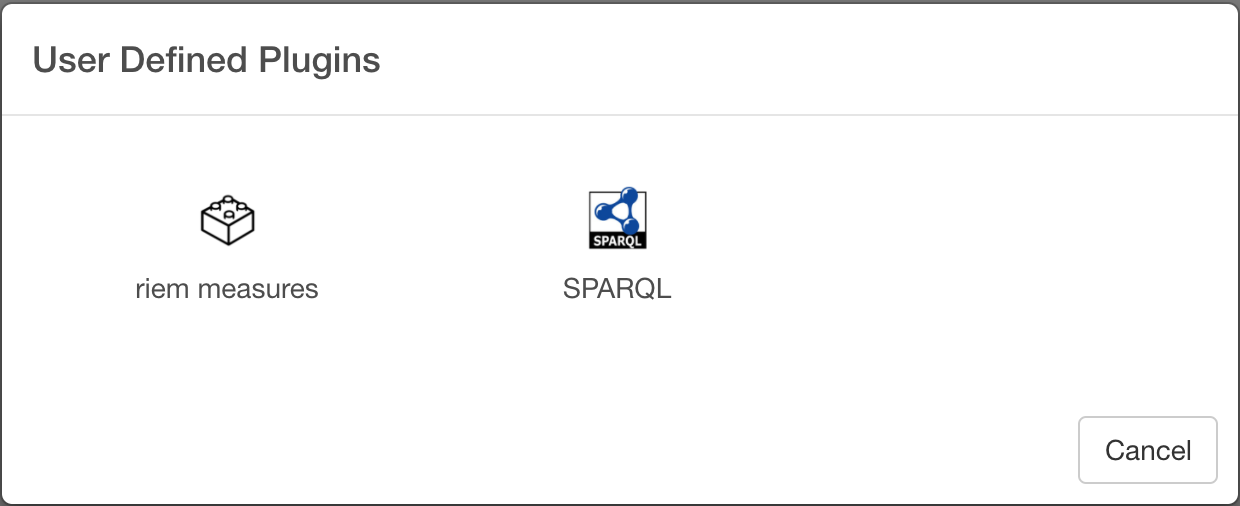
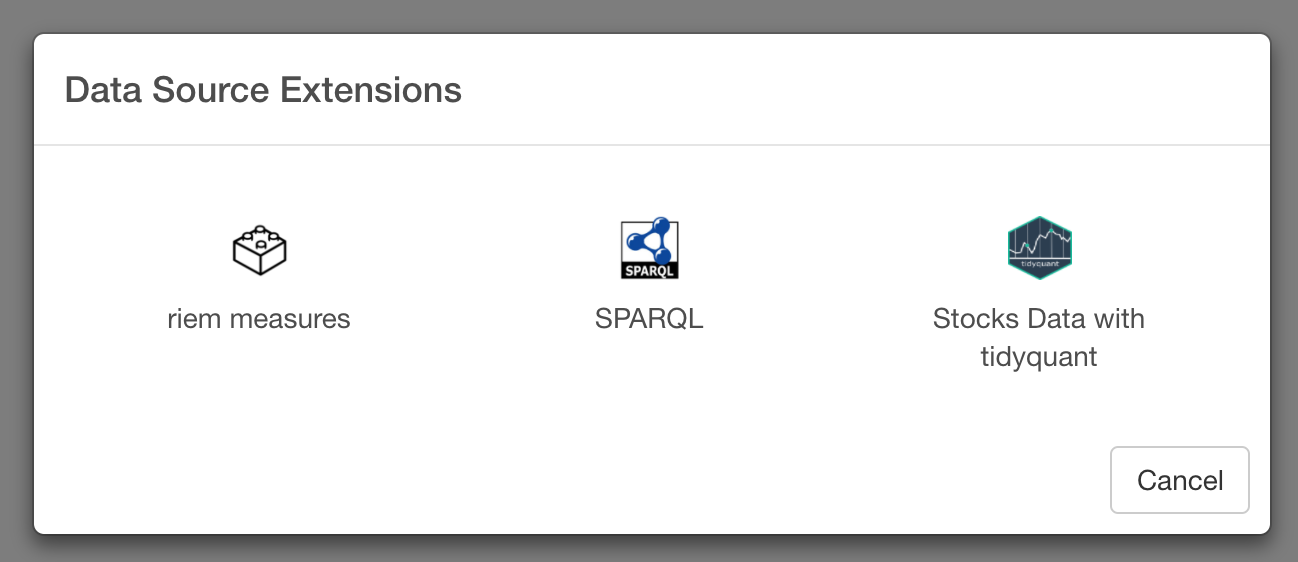
a) Changed name from plugin to data source extension b) Added example section.

diff --git a/user-defined-plugin.md b/user-defined-plugin.md
@@ -1,20 +1,20 @@
-# Add your Custom Data Sources with Plugin Framework
+# Add your Custom Data Sources with Data Source Extension Framework
 
 Exploratory provides a framework with which developers can create their own data sources that can be invoked from Exploratory's Data Import Dialog.
 
-## Plugin Structure
+## Data Source Extension Structure
 
-A user-defined plugin consists of JSON format plugin definition meta file (`plugin.json`) and R script file (`plugin.r`).
+A user-defined data source extension consists of JSON format extension definition meta file (`plugin.json`) and R script file (`plugin.r`).
 These two files need to be stored inside `~/.exploratory/plugins` directory as follows.
 
-`~/.exploratory/plugins/<plugin_name>/plugin.json`
+`~/.exploratory/plugins/<extension_name>/plugin.json`
 
-`~/.exploratory/plugins/<plugin_name>/scripts/plugin.r`
+`~/.exploratory/plugins/<extension_name>/scripts/plugin.r`
  
 
-## Create Plugin directory
+## Create Data Source Extension directory
 
-So let's say you want to create a plugin that uses `riem_measures` function from [riem](https://github.com/ropensci/riem) R package to get ASOS data via the Iowa Environment Mesonet. Then first you want to to create a directory called `my_riem_measures`. NOTE: The directory name is the plugin name and should be unique among user-defined plugins.
+So let's say you want to create a data source extension that uses `riem_measures` function from [riem](https://github.com/ropensci/riem) R package to get ASOS data via the Iowa Environment Mesonet. Then first you want to to create a directory called `my_riem_measures`. NOTE: The directory name is the data source extension name and should be unique among user-defined data source extensions.
 
 So on Mac, you can do:
 
@@ -22,9 +22,9 @@ So on Mac, you can do:
 
 `$ mkdir my_riem_measures`
 
-## Create Plugin Definition Meta File.
+## Create Data Source Extension Definition Meta File.
 
-This is how your Plugin Definition Meta File (`plugin.json`) looks like. The file must be in valid JSON format.
+This is how your Data Source Extension Definition Meta File (`plugin.json`) looks like. The file must be in valid JSON format.
 
 ```
 {
@@ -36,6 +36,7 @@ This is how your Plugin Definition Meta File (`plugin.json`) looks like. The fil
   "function": "riem_measures",
   "rSourceFile" : "plugin.r",
   "hasQueryField" : false,
+  "version" : "0,1",
   "inputParameters": [
     {
       "name": "station",
@@ -66,15 +67,15 @@ This is how your Plugin Definition Meta File (`plugin.json`) looks like. The fil
 
 #### name (required)
 
-`name` attribute holds Name of the plugin. in this case `my_riem_measures`, please make sure to use your directory name for this `name` attribute. 
+`name` attribute holds Name of the data source extension. in this case `my_riem_measures`, please make sure to use your directory name for this `name` attribute. 
 
 #### displayName (required)
 
-`displayName` attribute is used for Display Name on Data Source Picker Dialog and Import Data Dialog.
+`displayName` attribute is used for Display Name on Data Source Extension Picker Dialog and Import Data Dialog.
 
 #### iconURL (required)
 
-`iconURL` holds icon image file URL for your plugin. currently it only supports external URL.
+`iconURL` holds icon image file URL for your data source extension. currently it only supports external URL.
 
 For example:
  
@@ -82,7 +83,7 @@ For example:
    "iconURL" : "http://xmllondon.com/images/sparqlThumb.png",
 ```
 
-If you do not have an icon default lego like block icon is used instead.
+If you do not have an icon default icon is used instead.
 
 If you use external URL, `iconWidth` and `iconHeight` are set to 32px by default to fit icon in the UI. If you want to change it for some reason, you can change these by specifying following attributes.
 
@@ -93,7 +94,7 @@ If you use external URL, `iconWidth` and `iconHeight` are set to 32px by default
 
 #### helpURL (required)
 
-`helpURL` holds URL for your plugin help page. Help Link is put on Import Dialog Header.
+`helpURL` holds URL for your data source extension help page. Help Link is put on Import Dialog Header.
 If you do not have one, you can set default exploratory doc link like below:
 
 ```
@@ -102,7 +103,7 @@ If you do not have one, you can set default exploratory doc link like below:
 
 #### rPackageDependencies (optional)
 
-`rPackageDependencies` is an array of package names that the plugin depends. For example, if you plugin depends on `riem` you need to set it like below: 
+`rPackageDependencies` is an array of package names that the data source extension depends. For example, if you data source extension depends on `riem` you need to set it like below: 
 
 ```
 "rPackageDependencies": ["riem"],
@@ -110,11 +111,11 @@ If you do not have one, you can set default exploratory doc link like below:
 
 #### function (required)
 
-`function` holds R function name that the plugin calls to get data. The R function must return data frame as output. In this example, you'll call `riem_measures` from riem package.
+`function` holds R function name that the data source extension calls to get data. The R function must return a data frame as output. In this example, you'll call `riem_measures` from riem package.
 
 #### rSourceFile (required)
 
-`rSourceFile` holds the name of R script file that the plugin depends. Let's use `plugin.r` for this example.
+`rSourceFile` holds the name of R script file that the data source extension depends. Let's use `plugin.r` for this example.
 
 #### hasQueryField (optional)
 
@@ -137,9 +138,13 @@ then you can have dedicated query input field on right hand side of the import D
 
 ![](import/images/plugin_with_query_field.png)
 
+#### version (required)
+
+Version of your data source extension.
+
 ### inputParameters
 
-`inputParameters` is an array of parameters passed to the `function` (i.e in this case, `riem_measures`) and these are rendered as input fields on Data Import Dialog. Parameters order matters so make sure to set input parameters in a way that underly R function expects. For example, if your R function has arguments station, start_date, and end_date then you need to define your inputParameters in this order.(i.e station, start_date, and end_date). If you want to define parameter order in a different way, you need to write wrapper function in library.r file and then do a parameter mapping there like below and set the wrapper function name (`riem_measures_wrapper`) to `function` attribute.
+`inputParameters` is an array of parameters passed to the `function` (i.e in this case, `riem_measures`) and these are rendered as input fields on Data Import Dialog. Parameters order matters so make sure to set input parameters in a way that underlying R function expects. For example, if your R function has arguments station, start_date, and end_date then you need to define your inputParameters in this order.(i.e station, start_date, and end_date). If you want to define parameter order in a different way, you need to write wrapper function in library.r file and then do a parameter mapping there like below and set the wrapper function name (`riem_measures_wrapper`) to `function` attribute.
 
 ```
 riem_measures_wrapper <- function(start_date, end_date, station){
@@ -172,6 +177,7 @@ riem_measures_wrapper <- function(start_date, end_date, station){
 
 - text
 - select
+- lov
 - number
 - boolean
 
@@ -183,8 +189,8 @@ If you use `text`, it becomes input field that accepts characters.
 
 ##### select
 
-This is useful when you want to create a static List of Values.
-For example, if you want to create a time range List of Values, you can create it by specifying `options` and `itemDataType` like below. `options` is an array of selector options and each option needs to have `label` and `value` attributes. If your option value is text, `itemDataType` should be set as `text`. If your option value is number, `itemDataType` should be number. Date is not supported for `itemDataType` for now.
+This is useful when you want to create a static single value selector.
+For example, if you want to create a time range selector, you can create it by specifying `options` and `itemDataType` like below. `options` is an array of selector options and each option needs to have `label` and `value` attributes. If your option value is text, `itemDataType` should be set as `text`. If your option value is number, `itemDataType` should be number. Date is not supported for `itemDataType` for now. To set default selection, you can set your default value to `defaultValue` attribute.
 
 ```
 {
@@ -206,6 +212,32 @@ For example, if you want to create a time range List of Values, you can create i
   "defaultValue" : "5y"
 }
 ```  
+
+##### lov
+This is useful when you want to create a static multi-select List of Values.
+For example, if you want to create a Stock Symbols List of Values, you can create it by specifying `listOfValues` like below. `listOfValues` is an array of list of values option and each option needs to have `name` and `displayName` attributes.
+
+```
+{
+  "name": "stocks", 
+  "displayName":"Stock Symbols", 
+  "dataType": "lov", 
+  "defaultValue" : "",
+  "dynamicSuggestion" : false,
+  "required" : true,
+  "colSpan" : 10,
+  "labelClassName" : "lov-label",
+  "listOfValues" : [
+    {"name" : "AAPL", "displayName" : "Apple"},
+    {"name" : "GOOG", "displayName" : "Google"},
+    {"name" : "MSFT", "displayName" : "Microsoft"},
+    {"name" : "AMZN", "displayName" : "Amazon"},
+    {"name" : "FB", "displayName" : "Facebook"}
+  ]
+},
+```  
+
+
 ##### number
 
 If you use `number`, it becomes input field that accepts numeric value.
@@ -224,10 +256,10 @@ If you want to make a parameter as mandatory parameter, set the `required` attri
 
 ![](import/images/plugin_input_field_validation.png)
 
-## Create plugin R script file.
+## Create data source extension R script file.
 
-If your plugin simply passes input parameter values from UI to an existing R function pointed by `function` attribute, you don't need to define a new function in the R script. (i.e. all you need is create a single line `library(riem)` file and save it as `plugin.r`)
-However, if you plugin needs some pre-processing and/or post-processing along with some function call from a R package, then you need to write some R script in `plugin.r`.
+If your data source extension simply passes input parameter values from UI to an existing R function pointed by `function` attribute, you don't need to define a new function in the R script. (i.e. all you need is create a single line `library(riem)` file and save it as `plugin.r`)
+However, if you data source extension needs some pre-processing and/or post-processing along with some function call from a R package, then you need to write some R script in `plugin.r`.
 
 ```
 library(riem)
@@ -235,11 +267,11 @@ library(riem)
 
 ## How to use
 
-So once you created your custom plugin, you can test it by selecting `Import by User Defined Plugin` after clicking `+ (plus)` icon next to `Data Frames`.
+So once you created your data source extension, you can test it by selecting `Import Extension Data` after clicking `+ (plus)` icon next to `Data Frames`.
 
 ![](import/images/import_by_user_defined_plugin.png)
 
-And from User Defined Plugin Picker, select your plugin
+And from Data Source Extensions Picker, select your data source extension.
 
 
 ![](import/images/user_defined_plugin_picker.png)
@@ -247,3 +279,108 @@ And from User Defined Plugin Picker, select your plugin
 This will open a Data Import Dialog. And your input parameters should be displayed on left-hand side of the Import Dialog.
 
 ![](import/images/data_import_diloag_with_user_defined_plugin.png)
+
+## Example
+
+So as an example, let's create an data source extension with [tidyquant](https://github.com/mdancho84/tidyquant) R package to get Stocks data.
+
+### Create a data extension folder
+
+Go to your exploratory folder and create a directory called `tidyquant_example`
+
+```
+cd ~/.exploratory
+mkdir tidyquant_example
+```
+
+### Create data source extension definition json file
+
+With text editor, create a `plugin.json` with following content
+
+```
+{
+"name": "tidyquant_example",
+"displayName": "Stocks Data with tidyquant (example)",
+"iconURL" : "https://raw.githubusercontent.com/mdancho84/tidyquant/master/img/tidyquant-logo.png",
+"helpURL" :  "https://github.com/mdancho84/tidyquant",
+"function": "execute_tidyquant",
+"rPackageDependencies": ["tidyquant"],
+"rSourceFile" : "plugin.r",
+"version":"0.1",
+"inputParameters": [
+     {
+      "name": "stocks",
+      "displayName":"Stock Symbols",
+      "dataType": "lov",
+      "defaultValue" : "",
+      "dynamicSuggestion" : false,
+      "required" : true,
+      "colSpan" : 10,
+      "labelClassName" : "lov-label",
+      "listOfValues" : [
+          {"name" : "AAPL", "displayName" : "Apple"},
+          {"name" : "GOOG", "displayName" : "Google"},
+          {"name" : "MSFT", "displayName" : "Microsoft"},
+          {"name" : "AMZN", "displayName" : "Amazon"},
+          {"name" : "FB", "displayName" : "Facebook"}
+      ]
+     },
+     {
+       "name": "from",
+       "displayName":"Date From",
+       "dataType": "text",
+       "defaultValue" : "",
+       "defaultValue" : "2016-01-01",
+       "required" : true
+     }
+   ]
+}
+```
+
+and place the `plugin.json` file to `~/.exploratory/tidyquant_example` like this.
+
+```
+$ cp plugin.json  ~/.exploratory/tidyquant_example
+$ cd ~/.exploratory/tidyquant_example
+$ pwd
+/Users/<your_home_dir>/.exploratory/plugins/tidyquant_example
+$ tidyquant ls
+plugin.json
+```
+
+### Create data source extension R script
+
+Create a `plugin.r` with following content
+
+```
+execute_tidyquant <- function(stocks = "AAPL,GOOG,MSFT,AMZN", from = "2006-01-01") {
+  library(tidyquant)
+  library(stringr)
+  stockList <- stringr::str_split(stocks,",")
+  result <- sapply(stockList, function(stock){
+    list(stock = tidyquant::tq_get(stock, get = "stock.prices", from = from))
+  })
+  final <- do.call("rbind", result)
+}
+```
+
+And place the `plugin.r` to  `~/.exploratory/tidyquant_example/scripts` like this.
+
+```
+$ mkdir ~/.exploratory/tidyquant_example/scripts
+$ cp plugin.r  ~/.exploratory/tidyquant_example/scripts
+$ cd ~/.exploratory/tidyquant_example/scripts
+$ pwd
+/Users/<your_home_dir>/.exploratory/plugins/tidyquant_example/scripts
+$ tidyquant ls
+plugin.r
+```
+### Use it
+
+You can test it by selecting `Import Extension Data` after clicking `+ (plus)` icon next to `Data Frames`. Now you should be able to see your data source extension `Stocks Data Wity tidyquant (example)`
+
+![](import/images/data_source_extension_picker.png)
+
+And now you should be able to get Stock Data like this.
+
+![](import/images/tidyquant_example.png)

diff --git a/SUMMARY.md b/SUMMARY.md
@@ -43,7 +43,7 @@
 * [Branch](branch/branch.md)
 * [R Package Install](r_package.md)
 * [Custom R Script](r_script.md)
-* [Custom Data Source with Plugin Framework](user-defined-plugin.md)
+* [Custom Data Source with Data Source Extension Framework](user-defined-plugin.md)
 * [Setup](setup.md)
    * [How to disable McAfee virus scan](howto/stopmcafee.md)
 * [Keyboard shortcuts](shortcut.md)
